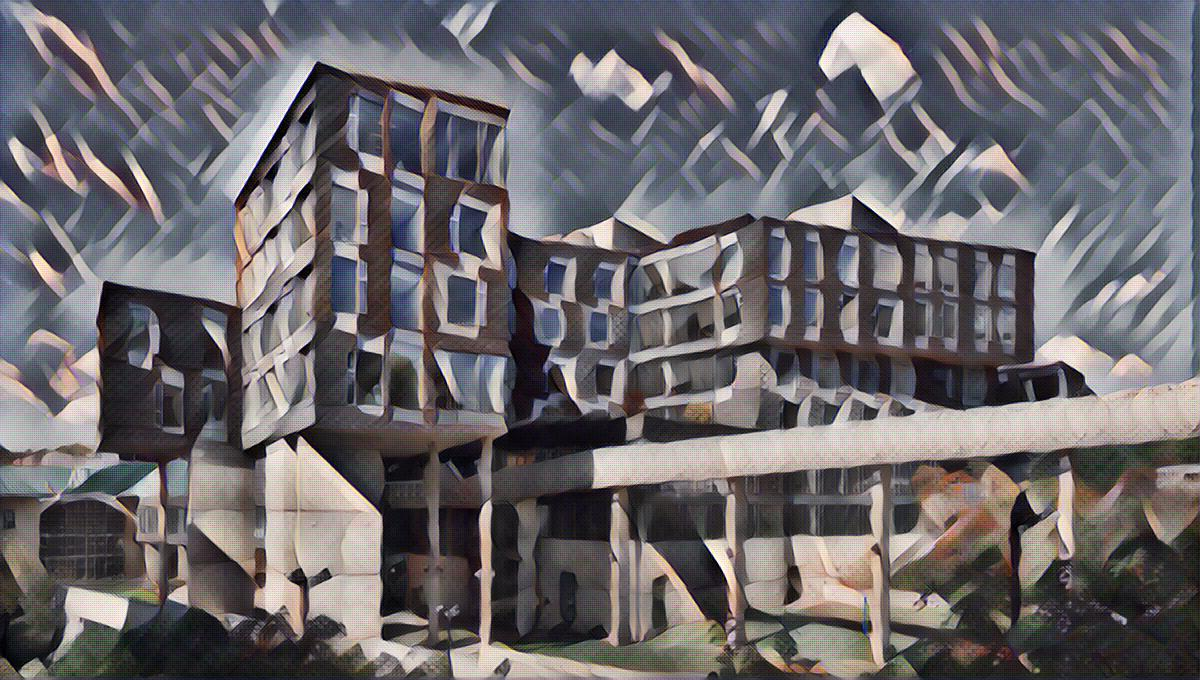
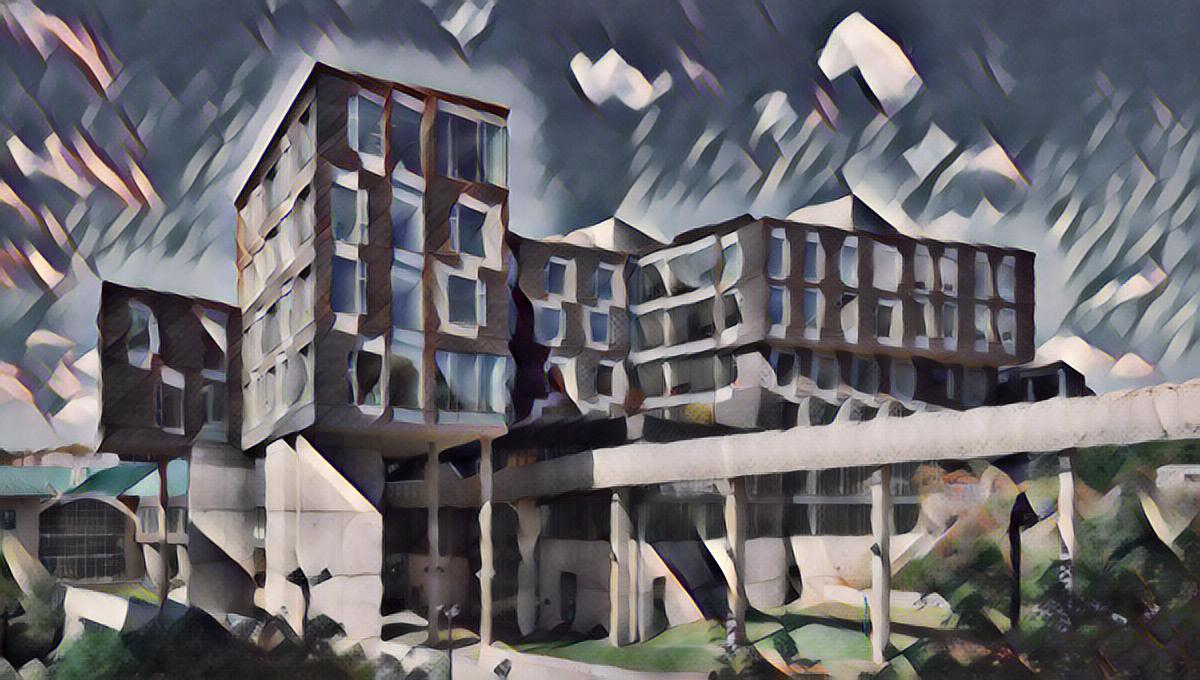
Tweak generation and use median filter

diff --git a/neural_style/utils.py b/neural_style/utils.py
@@ -4,6 +4,7 @@ import theano
 import theano.tensor as T
 import numpy as np
 from scipy.misc import imread, imsave, imresize
+from scipy.ndimage.filters import median_filter
 from keras.applications import VGG16, VGG19, ResNet50
 
 floatX = theano.config.floatX
@@ -73,6 +74,7 @@ def deprocess_img_and_save(img, filename):
     add_imagenet_mean(img)
     img = img[::-1].transpose((1, 2, 0))
     img = np.clip(img, 0, 255).astype(np.uint8)
+    img = median_filter(img, size=(3, 3, 1))
     try:
         imsave(filename, img)
     except OSError as e:

diff --git a/neural_style/fast_neural_style/transformer_net.py b/neural_style/fast_neural_style/transformer_net.py
@@ -89,8 +89,7 @@ def get_transformer_net(X, weights=None):
     y = conv_layer(y, 32, 3, upsample=2)
     y = conv_layer(y, 3, 9, only_conv=True)
     y = Activation("tanh")(y)
-    y = Lambda(lambda x: (x * 150) + 127.5, output_shape=(3, None, None))(y)
-    y = Lambda(lambda x: x - np.array([103.939, 116.779, 123.68], dtype=floatX).reshape(1, 3, 1, 1), output_shape=(3, None, None))(y)
+    y = Lambda(lambda x: x * 150, output_shape=(3, None, None))(y)
 
     net = Model(input=input_, output=y)
     if weights is not None:
